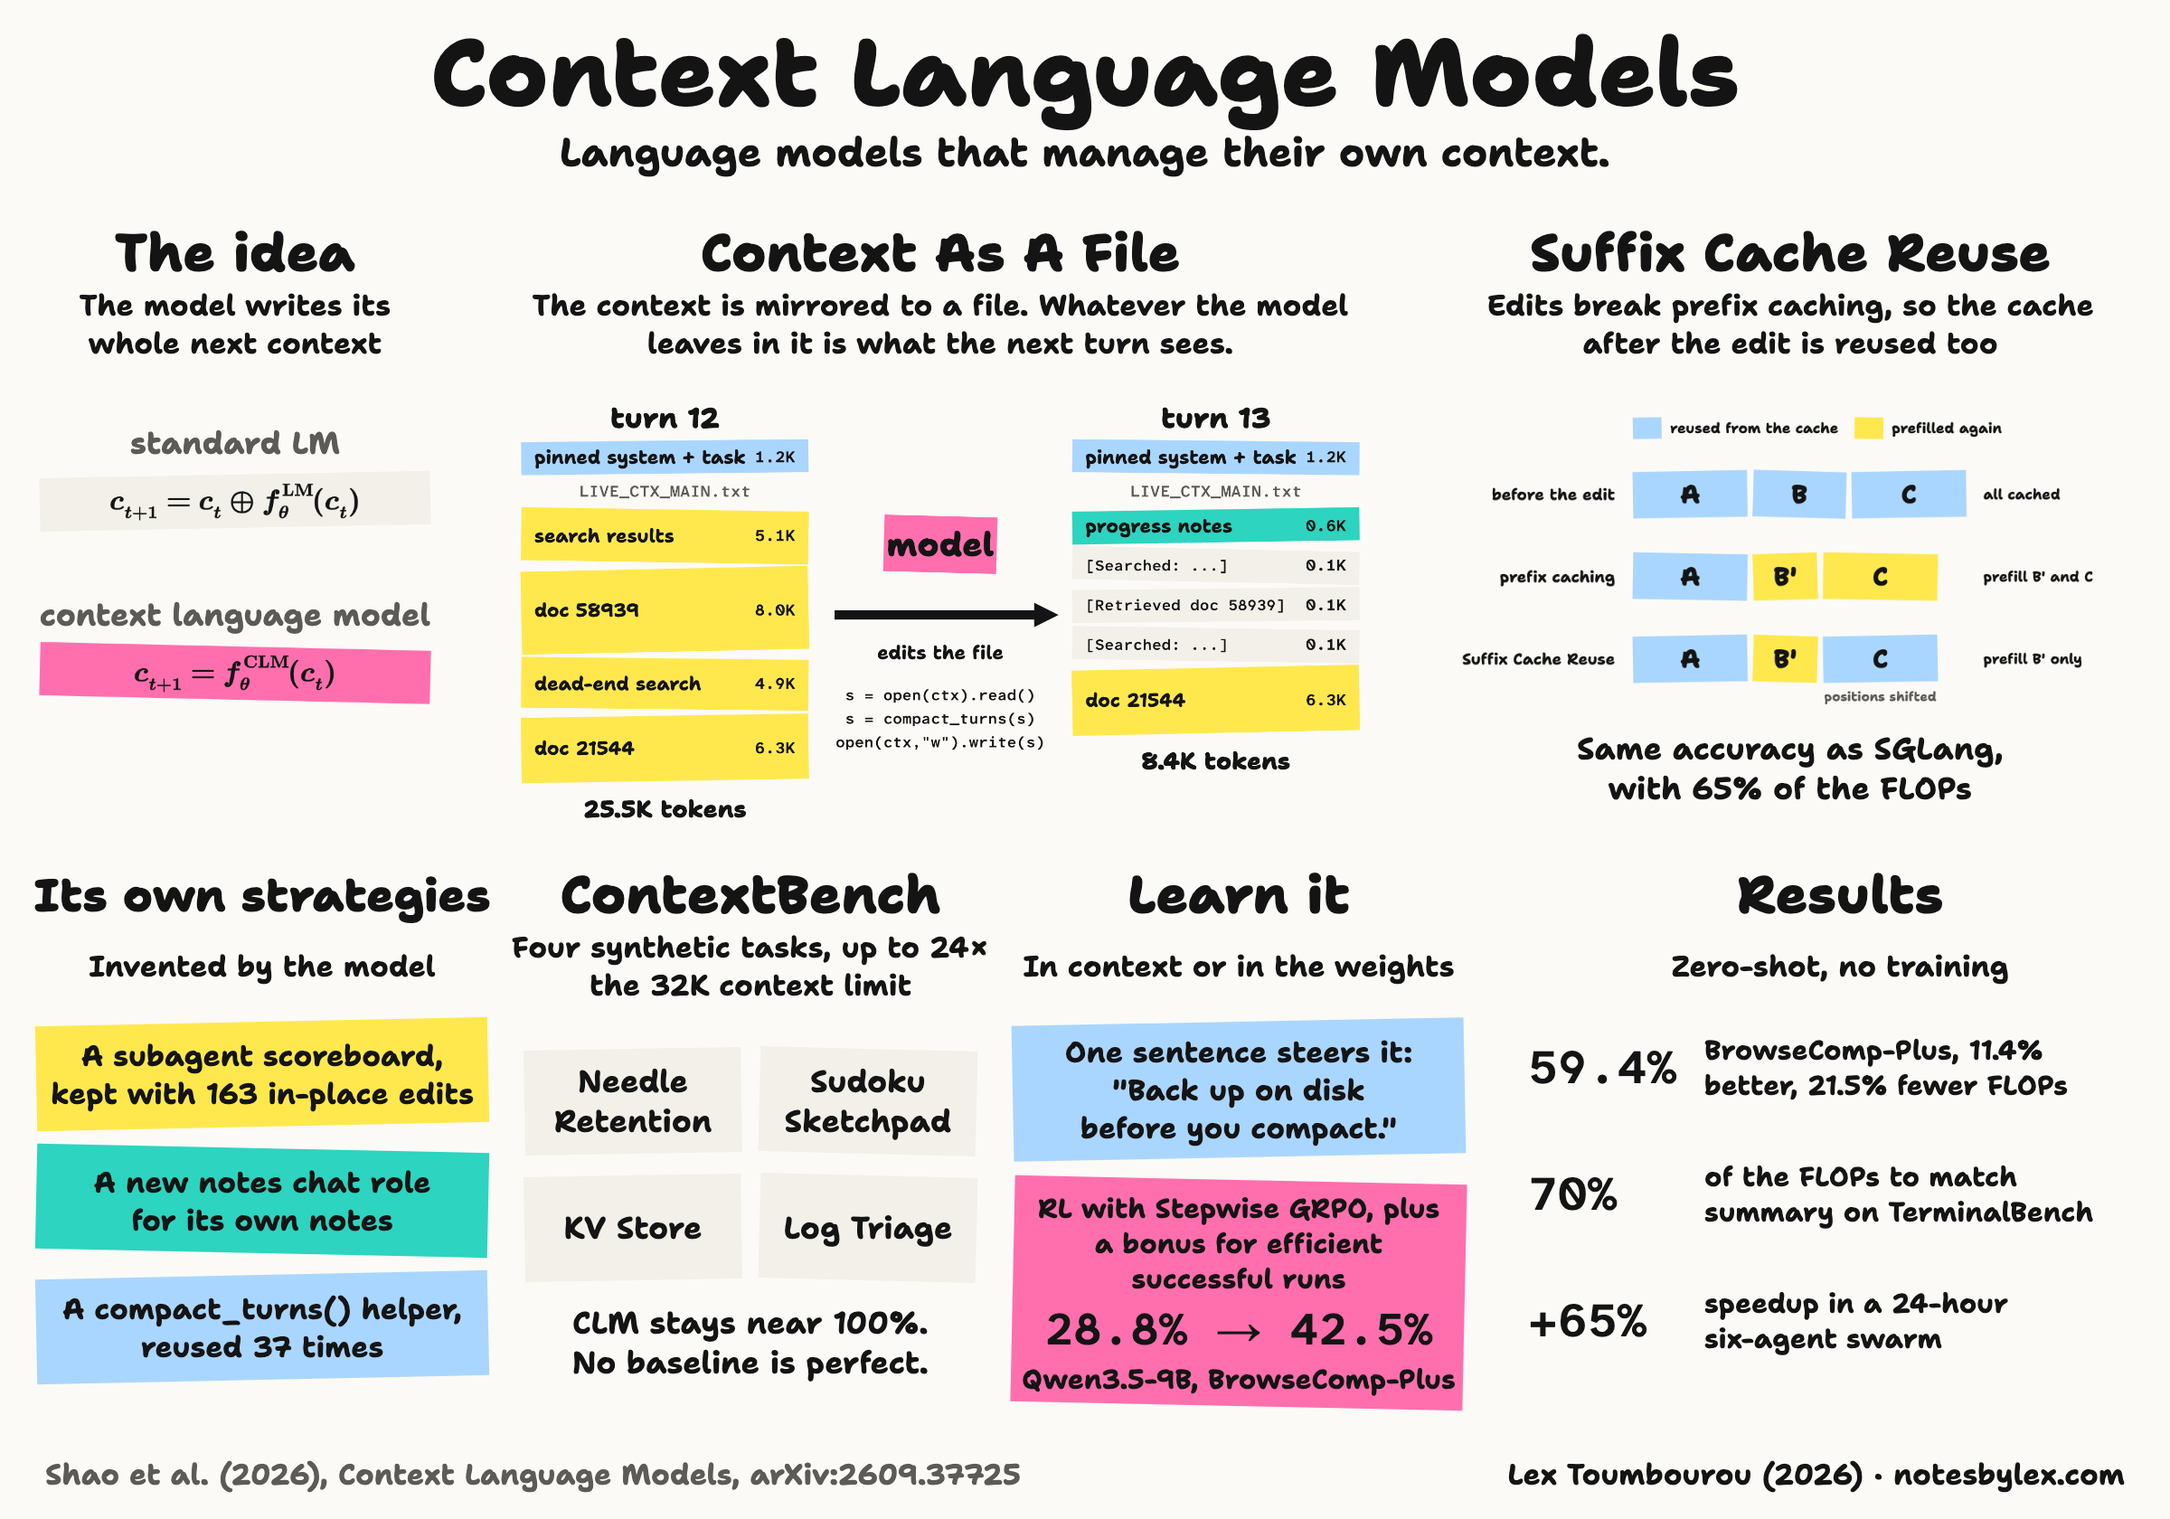
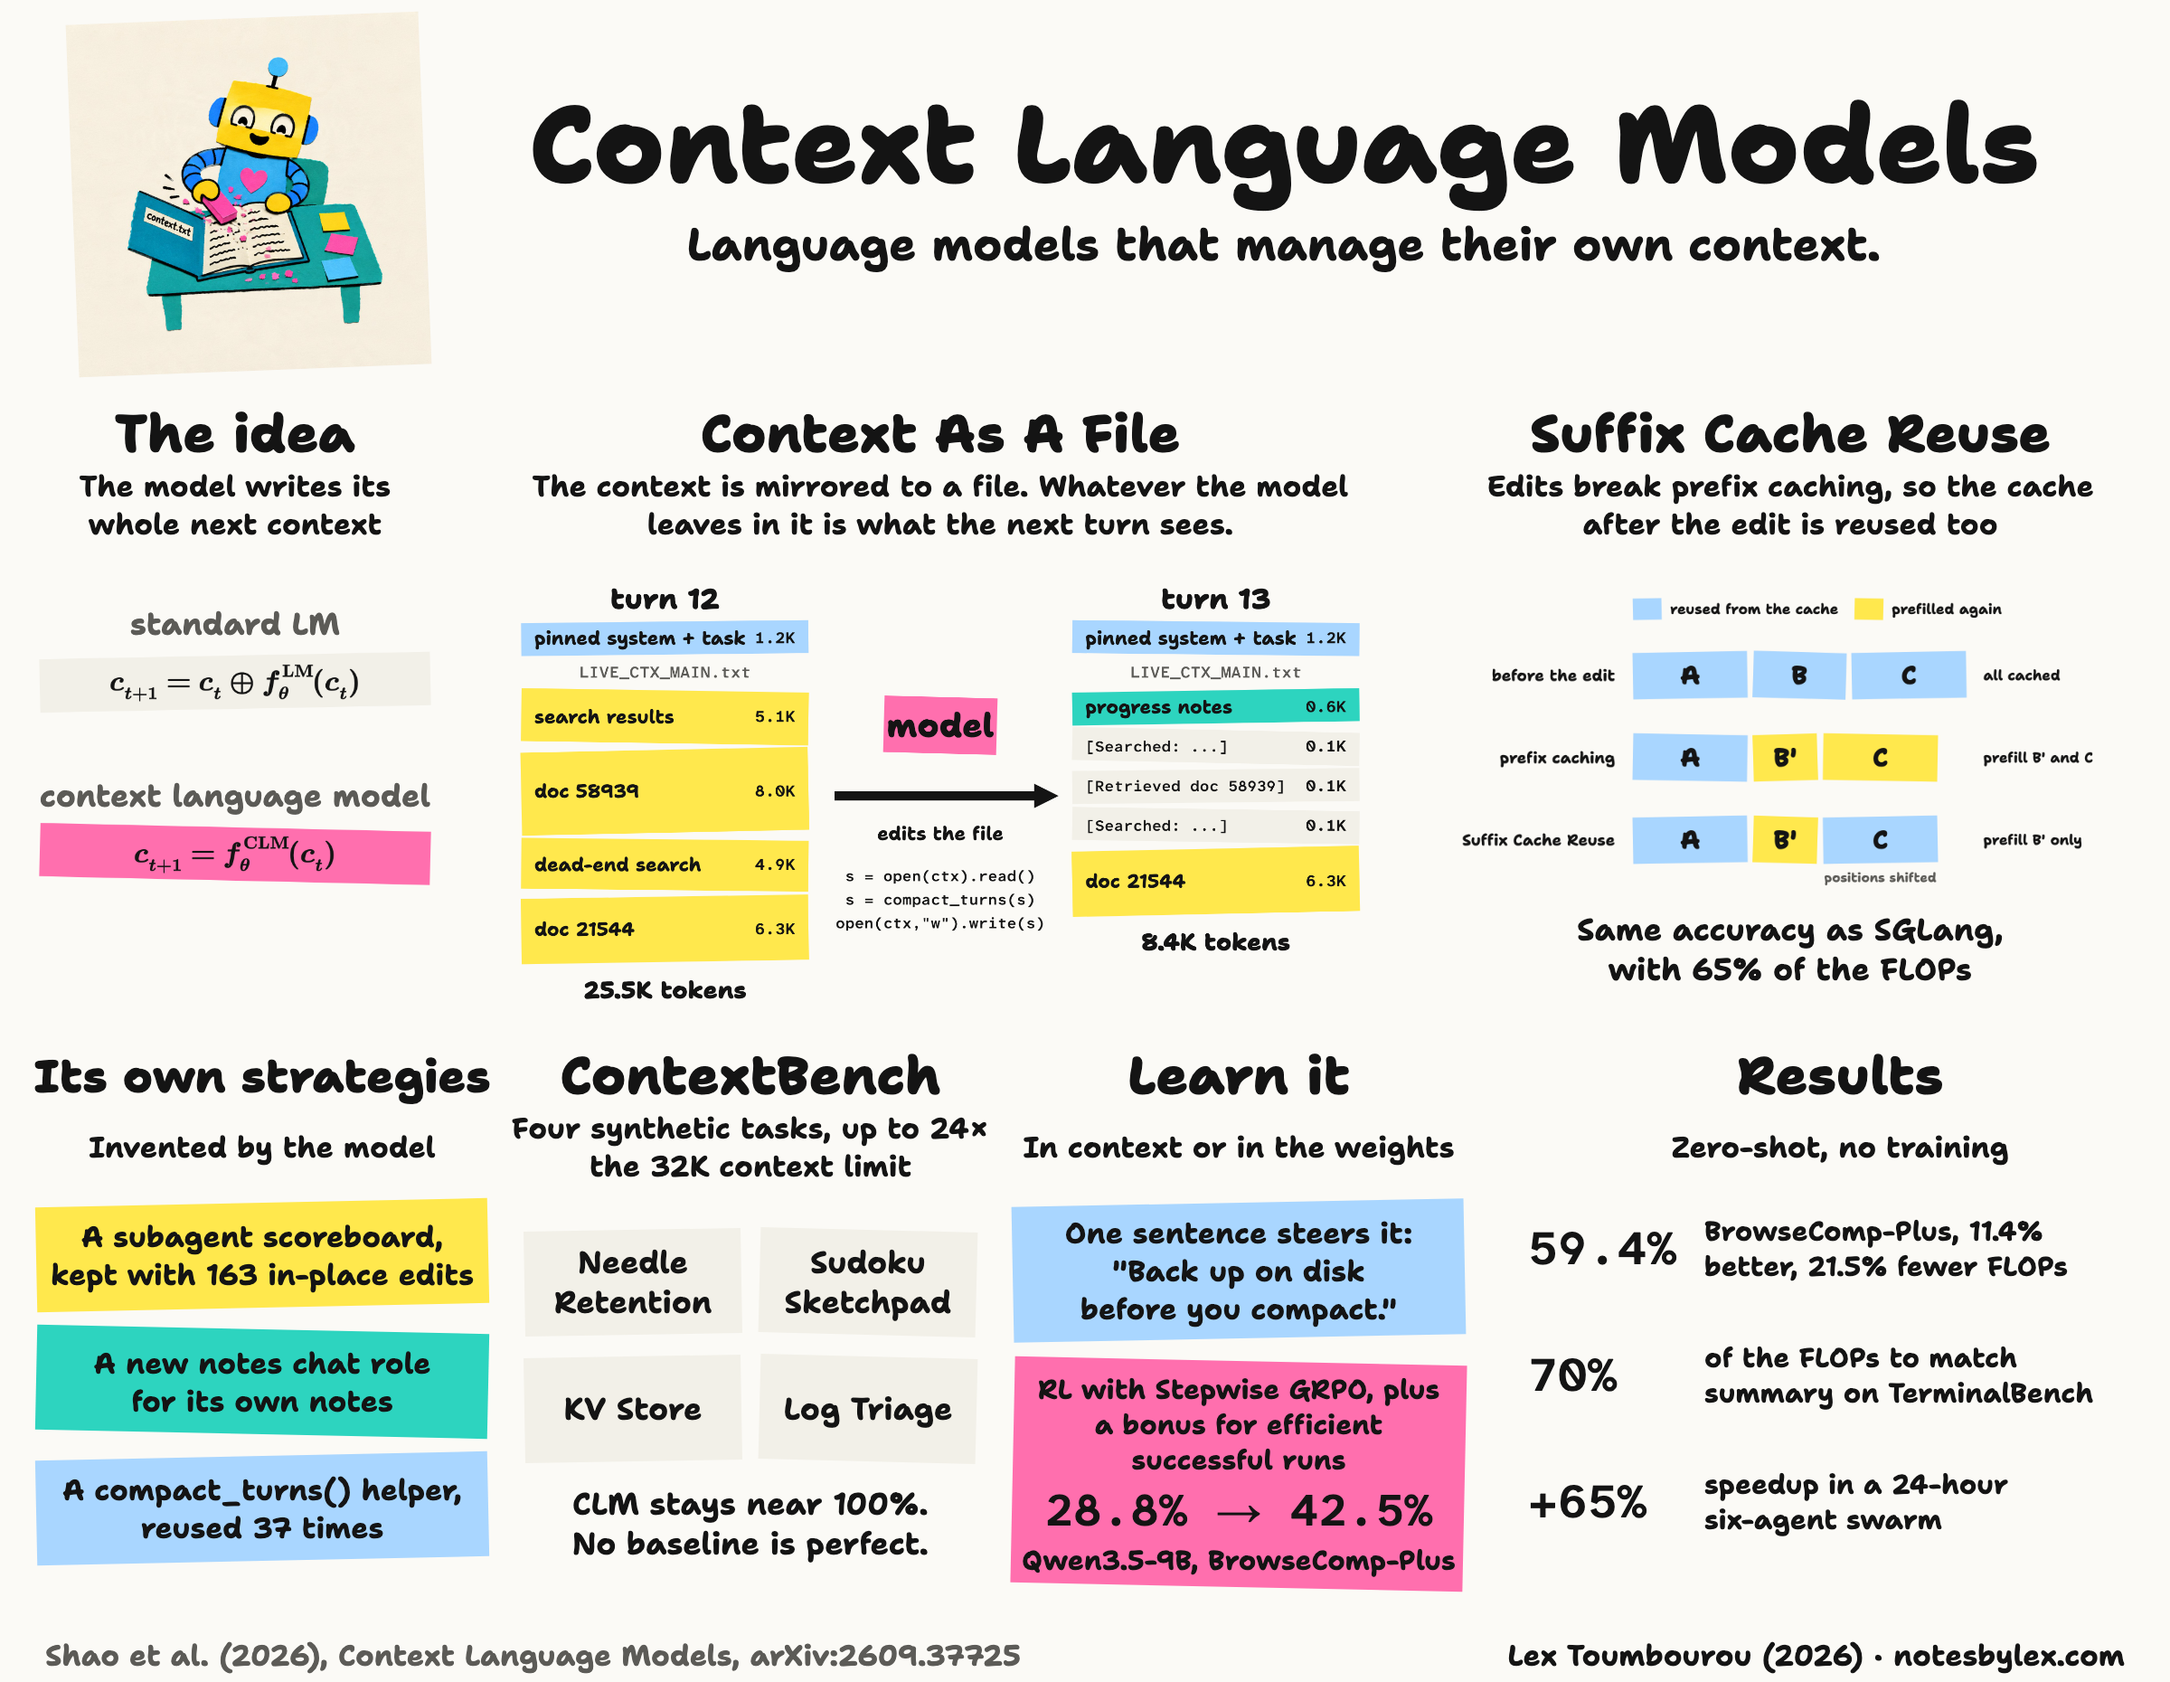
Context Language Models: multi-agent section, overview with cartoon header
- New "Multi-agent for free" section, linked to Multi-Agent Systems
- Lex's edits to the intro, strategies paragraph and Suffix Cache Reuse heading
- One-page overview now leads with a cartoon of a robot editing its own context.txt

diff --git a/notes/permanent/context-language-models.md b/notes/permanent/context-language-models.md
@@ -2,7 +2,7 @@
 title: "Context Language Models"
 slug: context-language-models
 date: 2026-10-15 12:10
-modified: 2026-10-18 09:32
+modified: 2026-10-18 09:37
 category: paper
 summary: Language models that manage their own context.
 cover: /_media/context-language-models/context-as-a-file.png
@@ -18,11 +18,11 @@ paper_year: 2026
 code: https://github.com/facebookresearch/context-language-models
 ---
 
-A new paper from the University of Washington and Meta introduces **Context Language Models** (CLMs) [@shaoContextLanguageModels2026].
+A few-week-old paper from the University of Washington and Meta introduces **Context Language Models** (CLMs) [@shaoContextLanguageModels2026].
 
 The idea is to let the model manage its own context, which it receives as a file it can edit across agent turns. They call the technique, aptly, **Context As A File**.
 
-Basically, you mirror the context into storage space and give the model write access. The model can optionally use Bash to edit its context on each turn, and the updated context is provided back to the model on the next turn (keeping some parts intact, like the system prompt and so forth).
+Basically, they mirror the context into storage space and give the model write access. The model can optionally use Bash to edit its context on each turn, and the updated context is provided back to the model on the next turn (keeping some parts intact, like the system prompt and so forth).
 
 It's part of a broader movement towards [Thin Harnesses](thin-harnesses.md), handing more and more control over to the model. It seems even the context management policy isn't safe.
 
@@ -44,11 +44,15 @@ The [harness](https://github.com/facebookresearch/context-language-models) mirro
 
 *An illustrative edit, with made-up token counts. The `compact_turns` helper is modelled on one the model wrote for itself on [BrowseComp-Plus](browsecomp-plus.md) (Figure 3d in [@shaoContextLanguageModels2026]).*
 
-Given that freedom, they saw the model came up with some original strategies for managing its own context (Figure 3):
+Given that freedom, the model came up with some novel context management strategies, like using scoreboards to track its subagents, inventing a "notes" chat role, and writing its own helper for managing compaction. Pretty wild.
 
-- On a maths problem with subagents, it kept a scoreboard of their status and updated it with 163 in-place edits, while keeping its own context at 6 to 8K tokens.
-- It invented a new chat role, `notes`, for its own internal notes.
-- It defined a `compact_turns` helper function and reused it 37 times.
+## Multi-agent for free
+
+Since every context is just a file, [Multi-Agent Systems](multi-agent-systems.md) come almost for free. An agent swarm is several context files, each synced to its own model server. Starting a subagent means creating a context file, and killing it means deleting the file. There's no orchestration framework, just more files.
+
+The scoreboard above is one example. The orchestrating agent tracked its subagents with in-place edits to its own context, rather than a tool built for the job.
+
+On Software World, six GPT-5.6-Sol agents with a 272K context limit jointly optimise six interdependent Python repositories for over 24 hours, and are scored on four downstream packages they never see. At the same spend as a summary-based swarm, the CLM swarm gets a 65% greater downstream speedup. Subagents helped less on the single-repository EdgeBench, where CLM with up to five subagents scored 44.2 against 44.6 for CLM on its own.
 
 ## ContextBench
 
@@ -58,9 +62,9 @@ They also introduce [ContextBench](contextbench.md), four synthetic tasks that n
 
 *Figure 2 from [@shaoContextLanguageModels2026], CC BY 4.0. All methods use GPT-5.4 with a 32K context limit.*
 
-## The KV cache problem
+## Suffix Cache Reuse
 
-Context management can be made compute efficient generally, since a shorter context makes every later turn cheaper. They count the re-prefill cost from edits in a metric they call prefix-reuse FLOPs, and CLMs still come out cheaper than the baselines in most experiments.
+Context management can be made compute-efficient generally, since a shorter context makes every later turn cheaper. They count the re-prefill cost from edits in a metric they call prefix-reuse FLOPs, and CLMs still come out cheaper than the baselines in most experiments.
 
 **Suffix Cache Reuse** (SCR) goes further. If the context `A B C` becomes `A B' C`, standard prefix caching keeps `A` and recomputes `B'` and `C`. SCR also keeps the cached states for `C`, shifts their rotary position encodings to the new positions, and only prefills `B'`. It's an approximation, because those states were computed with `B` in front of them. On BrowseComp-Plus, SCR matched standard SGLang's accuracy using 65% of its FLOPs.
 
